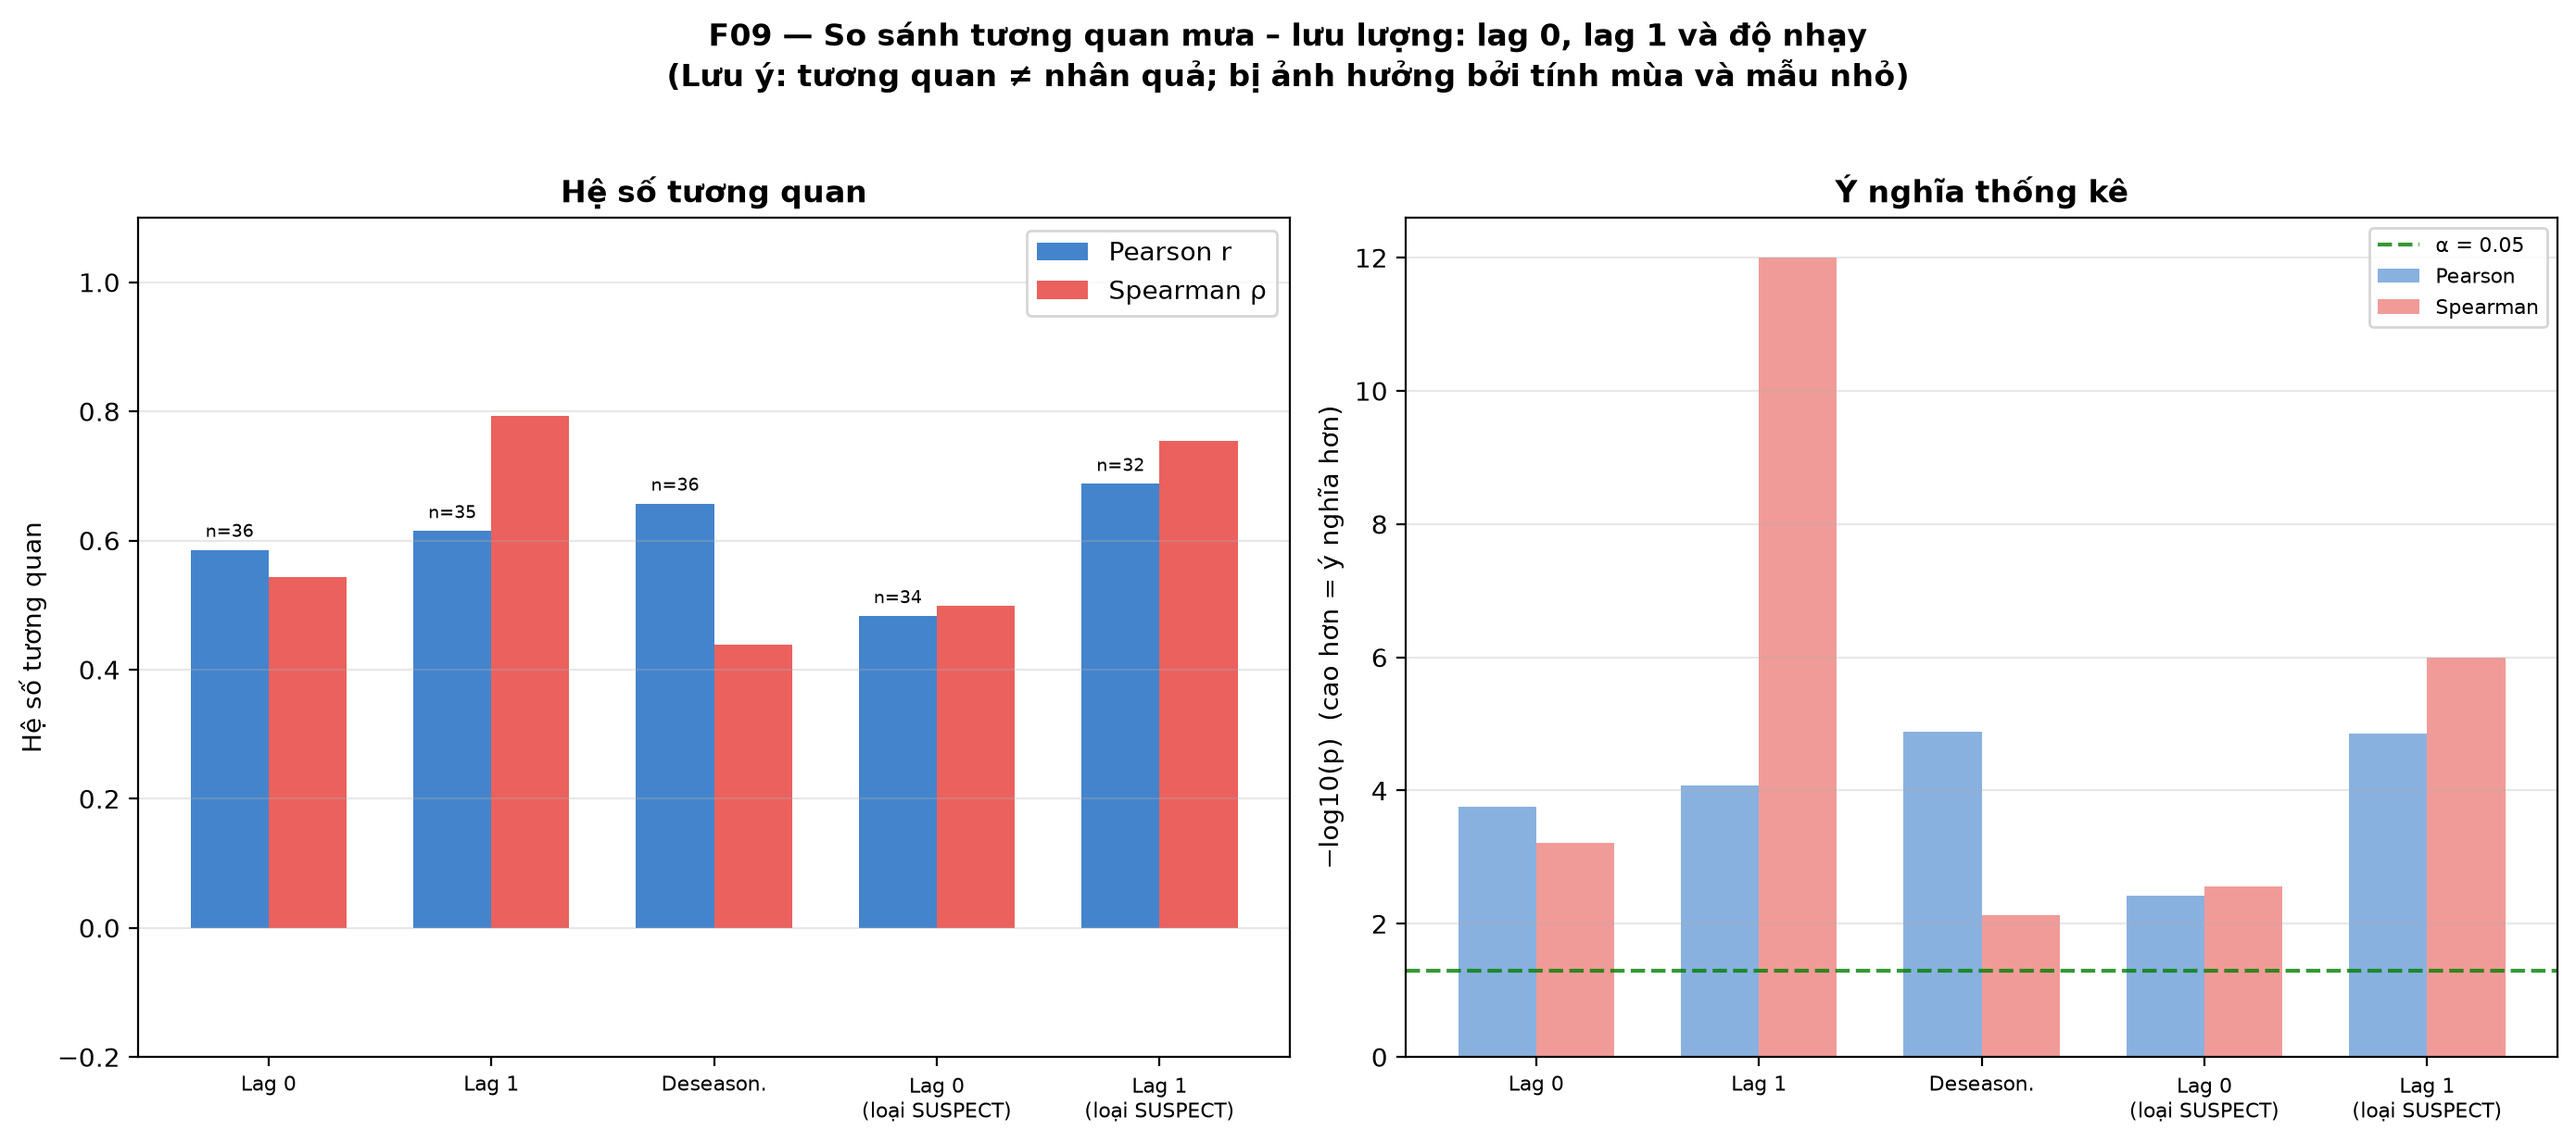
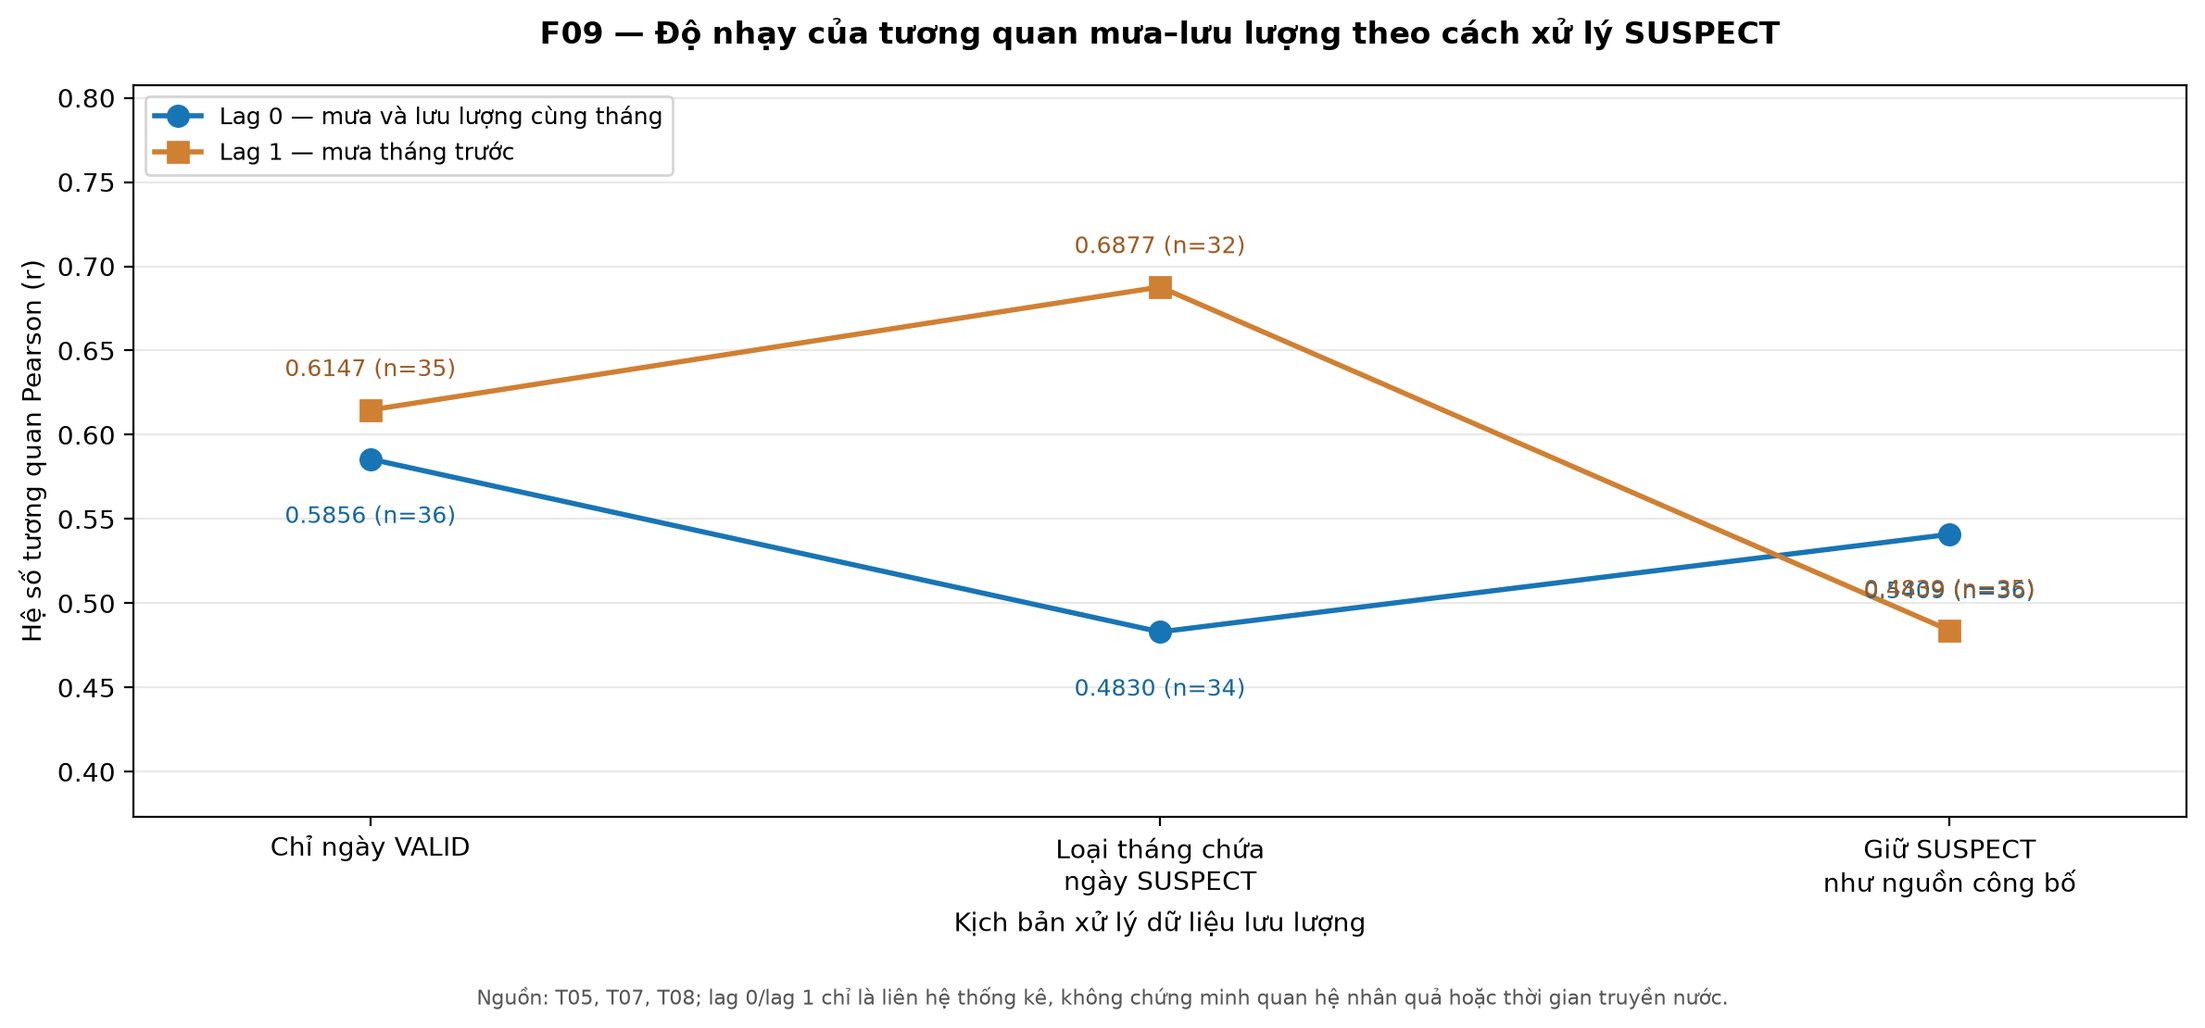
fix: reproduce final F09 sensitivity chart and sync writer handoff

diff --git a/handoff_writer/06_figures_and_tables_index.md b/handoff_writer/06_figures_and_tables_index.md
@@ -12,7 +12,7 @@
 | F06 | `figures/F06_upstream_level.png` | Mực nước thượng lưu sau kiểm định | m | Sông Ba Hạ | 06 | RQ2 |
 | F07 | `figures/F07_rainfall_inflow_comparison.png` | So sánh mưa tháng và lưu lượng về hồ | mm, m³/s | CHIRPS; Sông Ba Hạ | 07 | RQ3 |
 | F08 | `figures/F08_scatter_rainfall_inflow.png` | Scatter mưa – lưu lượng theo tháng | mm, m³/s | CHIRPS; Sông Ba Hạ | 07 | RQ3 |
-| F09 | `figures/F09_correlation_comparison.png` | So sánh tương quan lag 0 và lag 1 (kèm p-value) | — | Tính từ bảng tháng | 07 | RQ3 |
+| F09 | `figures/F09_correlation_comparison.png` | Độ nhạy Pearson theo ba kịch bản: VALID_ONLY, loại tháng SUSPECT, giữ SUSPECT như nguồn | — | T05, T07, T08 | 12 (sau 10) | RQ3 |
 | F10 | `figures/F10_inflow_distribution.png` | Phân bố lưu lượng (histogram log + boxplot theo năm) | m³/s | Sông Ba Hạ | 06 | RQ2 (bổ sung) |
 
 Ghi chú:

diff --git a/handoff_writer/04_results_and_interpretation.md b/handoff_writer/04_results_and_interpretation.md
@@ -157,7 +157,7 @@
 | F06 | Mực nước thượng lưu | Dao động trong dải vận hành, có đoạn bất thường đã loại |
 | F07 | Mưa và lưu lượng cùng trục thời gian | Hai chuỗi cùng pha ở quy mô tháng |
 | F08 | Scatter mưa – lưu lượng | Xu hướng dương, phân tán rộng |
-| F09 | So sánh tương quan lag 0 / lag 1 | Hệ số lag 1 cao hơn, p-value đều nhỏ |
+| F09 | Độ nhạy Pearson theo ba kịch bản SUSPECT | Thứ tự lag 0/lag 1 đảo khi giữ SUSPECT; không suy ra độ trễ thực |
 | F10 | Phân bố lưu lượng | Lệch phải mạnh, đuôi dài về phía giá trị lớn |
 
 
